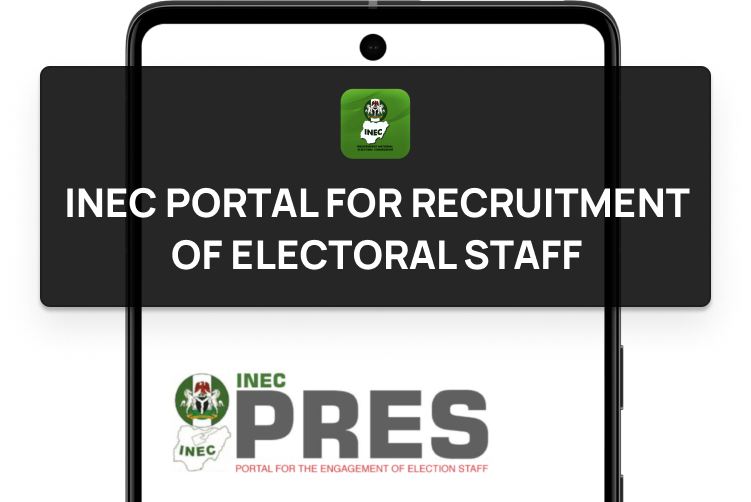
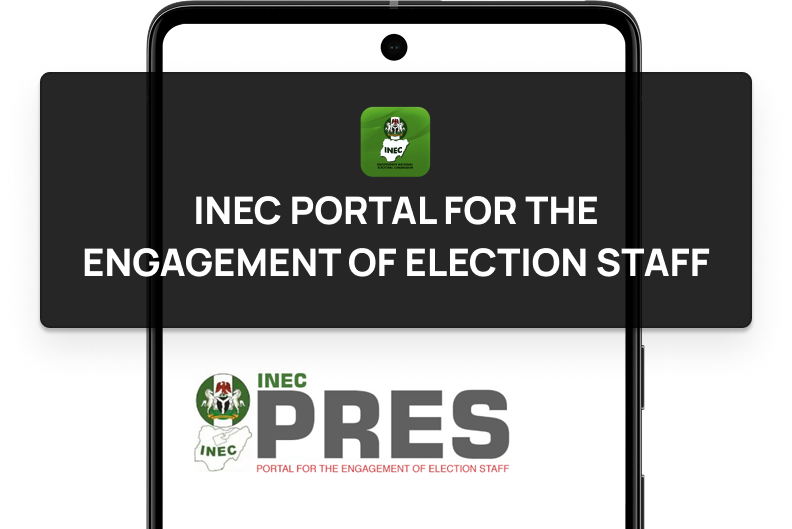
updated downloads page

Changed region(s): [[0.0306, 0.0, 0.9494, 1.0]]

diff --git a/src/app/app/page.tsx b/src/app/app/page.tsx
@@ -1,75 +1,96 @@
 "use client";
 import React from "react";
-
 import { useRouter } from "next/navigation";
-
 import Image from "next/image";
 
 const DownloadPage = () => {
-  const downloadApp = () => {
+  const downloadAndroid = () => {
     const url =
       "https://inec-croms-bucket.nyc3.digitaloceanspaces.com/apk-file/INECPRES.apk";
-
     window.location.href = url;
   };
+
+  const downloadIOS = () => {
+    const url = "https://apps.apple.com/app/inec-pres/id6738576146";
+    window.location.href = url;
+  };
+
   const router = useRouter();
+
   return (
     <section className=" md:mx-[10%] ">
       <header
-        style={{ boxShadow: " 10px 4px 40px 10px #1B2D4A14" }}
-        className="bg-white mt-5 py-2 mx-2 md:mx-10 px-2 md:px-6 flex justify-between items-center my-2  rounded-xl w-11/12 md:w-full"
+        style={{ boxShadow: "10px 4px 40px 10px #1B2D4A14" }}
+        className="bg-white mt-5 py-2 mx-2 md:mx-10 px-2 md:px-6 flex justify-between items-center my-2 rounded-xl w-11/12 md:w-full"
       >
         <div
-          className="flex items-center gap-1"
+          className="flex items-center gap-1 cursor-pointer"
           onClick={() => router.push("/")}
         >
-          {/* <Image  alt="Logo" className="h-8 mr-2" /> */}
-          <Image
-            src="/images/logo.png"
-            alt="Logo"
-            //   className="h-8 mr-2"
-            width={52}
-            height={52}
-          />
+          <Image src="/images/logo.png" alt="Logo" width={52} height={52} />
           <div className="flex flex-col">
-            <span className="text-black md:text-xl font-bold ">INEC PRESS</span>
+            <span className="text-black md:text-xl font-bold">INECPRES</span>
             <span className="text-[8px] md:text-xs">
-              Portal for the engagement of election staff
+              PORTAL FOR THE ENGAGEMENT OF ELECTORAL STAFF
             </span>
           </div>
         </div>
-        <div>
-          <button
-            onClick={downloadApp}
-            className="bg-green-600 hover:bg-green-500 text-white text-xs md:text-sm md:py-3 py-2 md:px-6 px-2 rounded"
-          >
-            Download App now
+
+        <div className="flex items-center gap-2">
+          <button onClick={downloadAndroid}>
+            <Image
+              src="/images/play-store.png"
+              alt="Google Play"
+              width={120}
+              height={40}
+            />
+          </button>
+          <button onClick={downloadIOS}>
+            <Image
+              src="/images/app-store.png"
+              alt="App Store"
+              width={120}
+              height={40}
+            />
           </button>
         </div>
       </header>
+
       <section className=" md:mx-[10%] ">
         <div className="flex items-center justify-center flex-col w-full px-3 md:pb-20">
           <div className="text-center my-8 flex items-center justify-center flex-col w-full">
             <h1 className="font-bold text-[28px] md:text-[40px] md:w-[70%]">
-              Centralized App For INEC Election Staff Engagement{" "}
+              Centralized App For INEC Election Staff Engagement
             </h1>
-            <p className="md:text-[18px] my-2  md:mx-[200px] md:w-[60%]">
-              Connect, coordinate and manage staff information and resources
-              effortlessly from INEC unified press application.
+            <p className="md:text-[18px] my-2 md:mx-[200px] md:w-[60%]">
+              Download the mobile application for the Independent National
+              Electoral Commission’s Portal for Engagement of Election Staff
+              (INECPRES).
             </p>
-            <div className="flex items-center justify-center gap-10 md:mb-10 mb-5 md:mt-4">
-              <button
-                onClick={downloadApp}
-                className="bg-green-600 hover:bg-green-500 text-white md:py-3 py-2 md:px-6 px-2 rounded"
-              >
-                Download App
+            <div className="flex items-center justify-center gap-6 md:mb-10 mb-5 md:mt-4">
+              <button onClick={downloadAndroid}>
+                <Image
+                  src="/images/play-store.png"
+                  alt="Google Play"
+                  width={140}
+                  height={45}
+                />
+              </button>
+              <button onClick={downloadIOS}>
+                <Image
+                  src="/images/app-store.png"
+                  alt="App Store"
+                  width={140}
+                  height={45}
+                />
               </button>
             </div>
           </div>
         </div>
       </section>
+
       <div className=" w-full mt-20">
-        <div className="backgroundImage bg-[#448220] flex items-end justify-center   h-[80px] md:h-[110px] lg:h-[110px]">
+        <div className="backgroundImage bg-[#448220] flex items-end justify-center h-[80px] md:h-[110px] lg:h-[110px]">
           <div className="flex items-center justify-center h-[200px] md:h-[280px] lg:h-[320px] bg-contain bg-no-repeat bg-bottom bg-transparent w-full z-10 bg-[url('/images/mobile2.png')]"></div>
         </div>
       </div>

diff --git a/src/components/organisms/dashboard/sidebar.tsx b/src/components/organisms/dashboard/sidebar.tsx
@@ -15,9 +15,9 @@ export const SideBar = () => {
           />
         </div>
         <div className="flex flex-col">
-          <span className="text-black md:text-base font-bold ">INEC PRESS</span>
+          <span className="text-black md:text-base font-bold ">INECPRES</span>
           <span className="text-[4px] md:text-[6px]">
-            Portal for the engagement of election staff
+            INEC Portal for Engagement of Election Staff
           </span>
         </div>
       </div>
